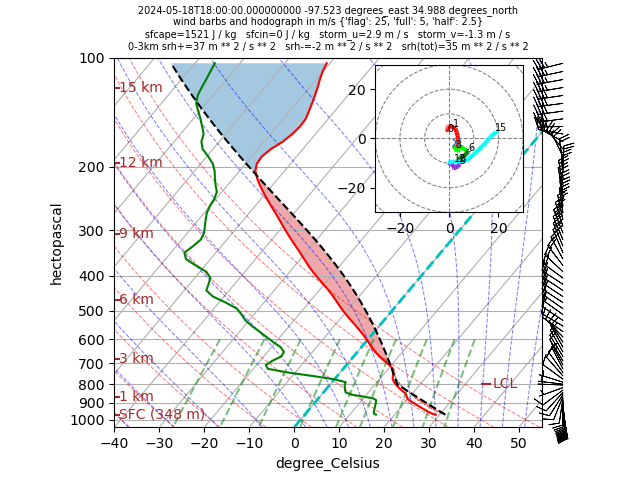
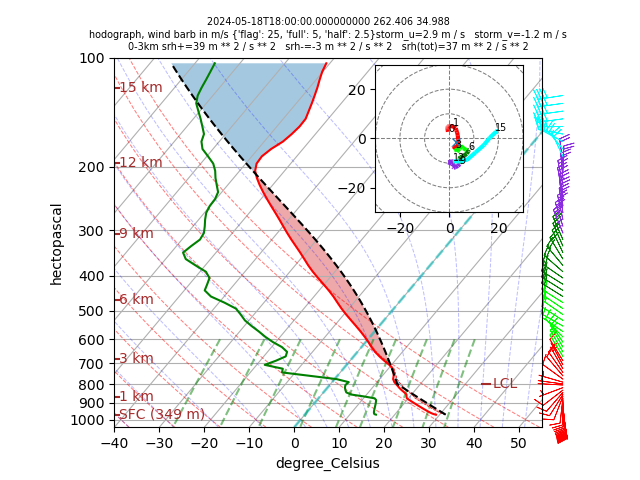
take away model_levels and campaign options
make them true by default
clean up some logging

updated example output

diff --git a/cm1/utils.py b/cm1/utils.py
@@ -19,10 +19,10 @@ def parse_args() -> argparse.Namespace:
     -------
     argparse.Namespace
         Parsed command-line arguments including time, longitude, latitude,
-        and options for model levels and campaign storage.
+        and optional path to glade directory.
     """
     parser = argparse.ArgumentParser(description="get ERA5 sounding at time, lon, lat")
-    parser.add_argument("--time", help="time")
+    parser.add_argument("time", help="time")
     parser.add_argument(
         "--lon",
         type=lambda x: float(x) % 360 * units.degreeE,
@@ -33,17 +33,7 @@ def parse_args() -> argparse.Namespace:
         type=lambda x: float(x) * units.degreeN,
         help="latitude in degrees North",
     )
-    parser.add_argument(
-        "--model_levels", action="store_true", help="native model levels"
-    )
-    parser.add_argument("--campaign", action="store_true", help="use campaign storage")
     parser.add_argument("--glade", default="/", help="parent of glade directory")
-    parser.add_argument(
-        "--neighbors",
-        type=int,
-        default=1,
-        help="number of neighbors to average",
-    )
     args = parser.parse_args()
     logging.info(args)
     return args

diff --git a/cm1/input/sounding.py b/cm1/input/sounding.py
@@ -262,13 +262,14 @@ def main() -> None:
     Main function for loading ERA5 data and printing sounding data.
 
     If cached data exists, it is loaded from a local file. Otherwise,
-    it retrieves data based on user input and saves it for later use.
+    it retrieves data based on user input and caches it for later use.
     """
 
     import pickle
 
     args = parse_args()
 
+    valid_time = pd.to_datetime(args.time)
     ofile = get_ofile(args)
     if os.path.exists(ofile):
         logging.warning(f"read {ofile}")
@@ -276,19 +277,14 @@ def main() -> None:
             ds = pickle.load(file)
     else:
         ds = cm1.input.era5.get(
-            pd.to_datetime(args.time),
-            campaign=args.campaign,
-            model_levels=args.model_levels,
+            valid_time,
             glade=args.glade,
         )
         with open(ofile, "wb") as file:
             logging.warning(f"pickle dump {ofile}")
             pickle.dump(ds, file)
 
-    if args.neighbors == 1:
-        ds = era5(ds, args.lat, args.lon)
-    else:
-        ds = era5_circle_neighborhood(ds, args.lat, args.lon, args.neighbors)
+    ds = era5(valid_time, args.lat, args.lon)
 
     print(to_txt(ds))
 

diff --git a/cm1/input/era5.py b/cm1/input/era5.py
@@ -159,7 +159,8 @@ def get(
         # Drop "utc_date" to avoid error about "Gregorian year" when quantifying
         # For some reason Gaussian "zero" is flipped for some latitudes in "SP" file.
         ds = xarray.open_mfdataset(local_files, drop_variables=["zero", "utc_date"])
-        logging.warning(f"opened {local_files}")
+        logging.warning(f"opened {len(local_files)} local files")
+        logging.info(local_files)
         logging.warning(f"selected {time}")
         ds = ds.sel(time=time)
         ds = ds.metpy.quantify()
@@ -283,7 +284,7 @@ def s3_era5_dataset(time: pd.Timestamp) -> xarray.Dataset:
         logging.warning(f"Downloaded and cached: {cache_file_path}")
 
     ds_pl = xarray.open_mfdataset(cache_file_paths).drop_vars("utc_date")
-    logging.warning(f"selecting {time} from ds_pl")
+    logging.info(f"selecting {time} from ds_pl")
     ds_pl = ds_pl.sel(time=time)
     ds_pl = ds_pl.metpy.quantify()
     ds_pl["P"] = ds_pl.level * ds_pl.level.metpy.units

diff --git a/cm1/skewt.py b/cm1/skewt.py
@@ -48,8 +48,6 @@ def main() -> None:
     else:
         ds = cm1.input.era5.get(
             pd.to_datetime(args.time),
-            campaign=args.campaign,
-            model_levels=args.model_levels,
             glade=args.glade,
         )
     with open(ofile, "wb") as file:
@@ -57,14 +55,11 @@ def main() -> None:
 
     logging.warning(f"select {args}")
 
-    if args.neighbors == 1:
-        ds = ds.sel(
-            longitude=args.lon,
-            latitude=args.lat,
-            method="nearest",
-        )
-    else:
-        ds = era5_circle_neighborhood(args, ds)
+    ds = ds.sel(
+        longitude=args.lon,
+        latitude=args.lat,
+        method="nearest",
+    )
     skewt(ds)
     plt.show()
 

diff --git a/cm1/README.md b/cm1/README.md
@@ -1,54 +1,35 @@
 Requirements
 * access to [NCAR HPC Campaign Storage](https://ncar-hpc-docs.readthedocs.io/en/latest/storage-systems/glade/campaign/) `/glade/campaign/`
 * Install Python modules in `environment.yml`
-* Install cm1 for io and skewt
+* Install cm1 for input/sounding and skewt
 
-Average 4 nearest neighbors to create an ERA5 sounding for CM1.
+Get ERA5 sounding for CM1.
 ```csh
-python io.py --time 20240518T18 \
+python cm1/input/sounding.py 20240518T18 \
              --lat 35.0 \
              --lon -97.5 \
-             --model_levels \
-             --neighbors 4
 ```
 
 Expected output
 ```txt
-970.657265625 304.96840122539595 11.747593879699707
-358.4174049017497 304.96840122539595 11.747594 -0.5483265 2.73069
-380.54032965421084 304.6743645758991 11.498227 -0.68818283 3.4614773
-404.708255386005 304.5535878745396 11.393301 -0.73482513 3.775196
-431.08264653696324 304.47720570647425 11.329708 -0.7543106 3.9692726
-459.8599989124849 304.42263681736296 11.283353 -0.76189995 4.1102505
-491.260237960746 304.3810119697638 11.246566 -0.7610302 4.2205486
-525.5182674313297 304.34785655045994 11.215036 -0.7530823 4.3127804
-562.8836016857136 304.31938519027574 11.187205 -0.7418728 4.3923798
-603.6127606960562 304.2954985190947 11.1609535 -0.72548294 4.4626694
-647.9948621354241 304.27365604129596 11.136223 -0.7049713 4.5272045
-696.3356964614975 304.2526852609789 11.11126 -0.67718124 4.5868816
-[ middle of sounding truncated for display ]
-51924.80412237601 2124.6908552742752 0.004016554 -14.470295 12.156921
-53727.937826686764 2238.9303603700573 0.004010447 -12.600323 11.774208
-55598.57132697673 2361.8045323717047 0.004006495 -12.546909 10.750179
-57536.544184722305 2493.7872966109776 0.00402045 -14.150719 9.373539
-59541.54177382454 2637.5698760101877 0.0040414864 -17.022324 7.7416534
-61615.95080627604 2802.18396369304 0.0040442417 -22.197521 5.819565
-63765.47510490099 2992.864331659829 0.004039855 -29.190674 4.0974274
-65997.91030820494 3218.3798436168618 0.003858825 -33.905994 4.0924797
-68319.63428062075 3475.1252194218564 0.0034611665 -35.155327 6.0078087
-70727.930762076 3751.261940723118 0.002933567 -35.780502 5.6500416
-73222.36684076797 4084.5031995531303 0.0024491388 -38.776955 2.3205833
-78499.20293708336 5103.621596403739 0.001768994 -40.6935 -0.16107559
+970.489765625 305.05290194997804 11.745924949645996
+359.56937392521945 305.05290194997804 11.745925 -0.4931507 2.7055435
+381.6970972041179 304.7529839107131 11.500492 -0.63251877 3.4744167
+405.8699399591399 304.6322488995256 11.397116 -0.6791611 3.803028
+...
+68319.46188949367 3474.7874296084315 0.0034596093 -35.207085 5.9311485
+70727.57147087222 3751.057485302557 0.0029332906 -35.85179 5.6148853
+73221.88751179523 4084.3378101443027 0.0024499972 -38.751564 2.3364525
+78498.49289632482 5103.392374095416 0.001767859 -40.766743 -0.16766739
+
 ```
 
 Plot a skew-T diagram.
 
 ```csh
-python skewt.py --time 20240518T18 \
+python skewt.py 20240518T18 \
                 --lat 35.0 \
                 --lon -97.5 \
-                --model_levels \
-                --neighbors 4
 ```
 
 Expected output
